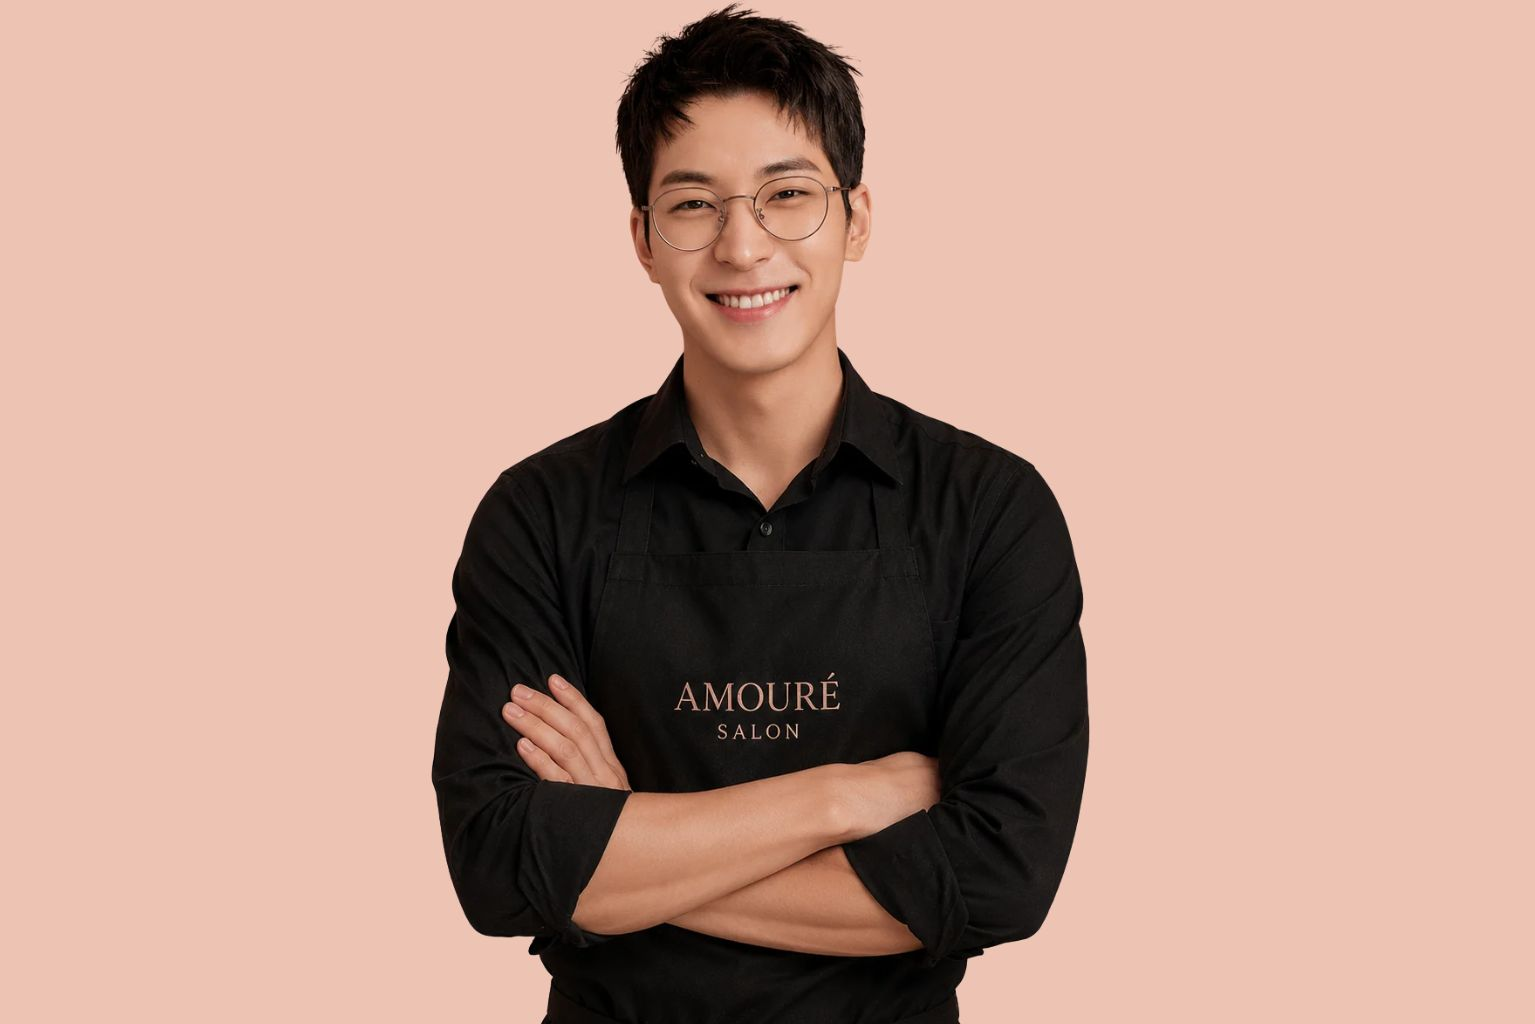
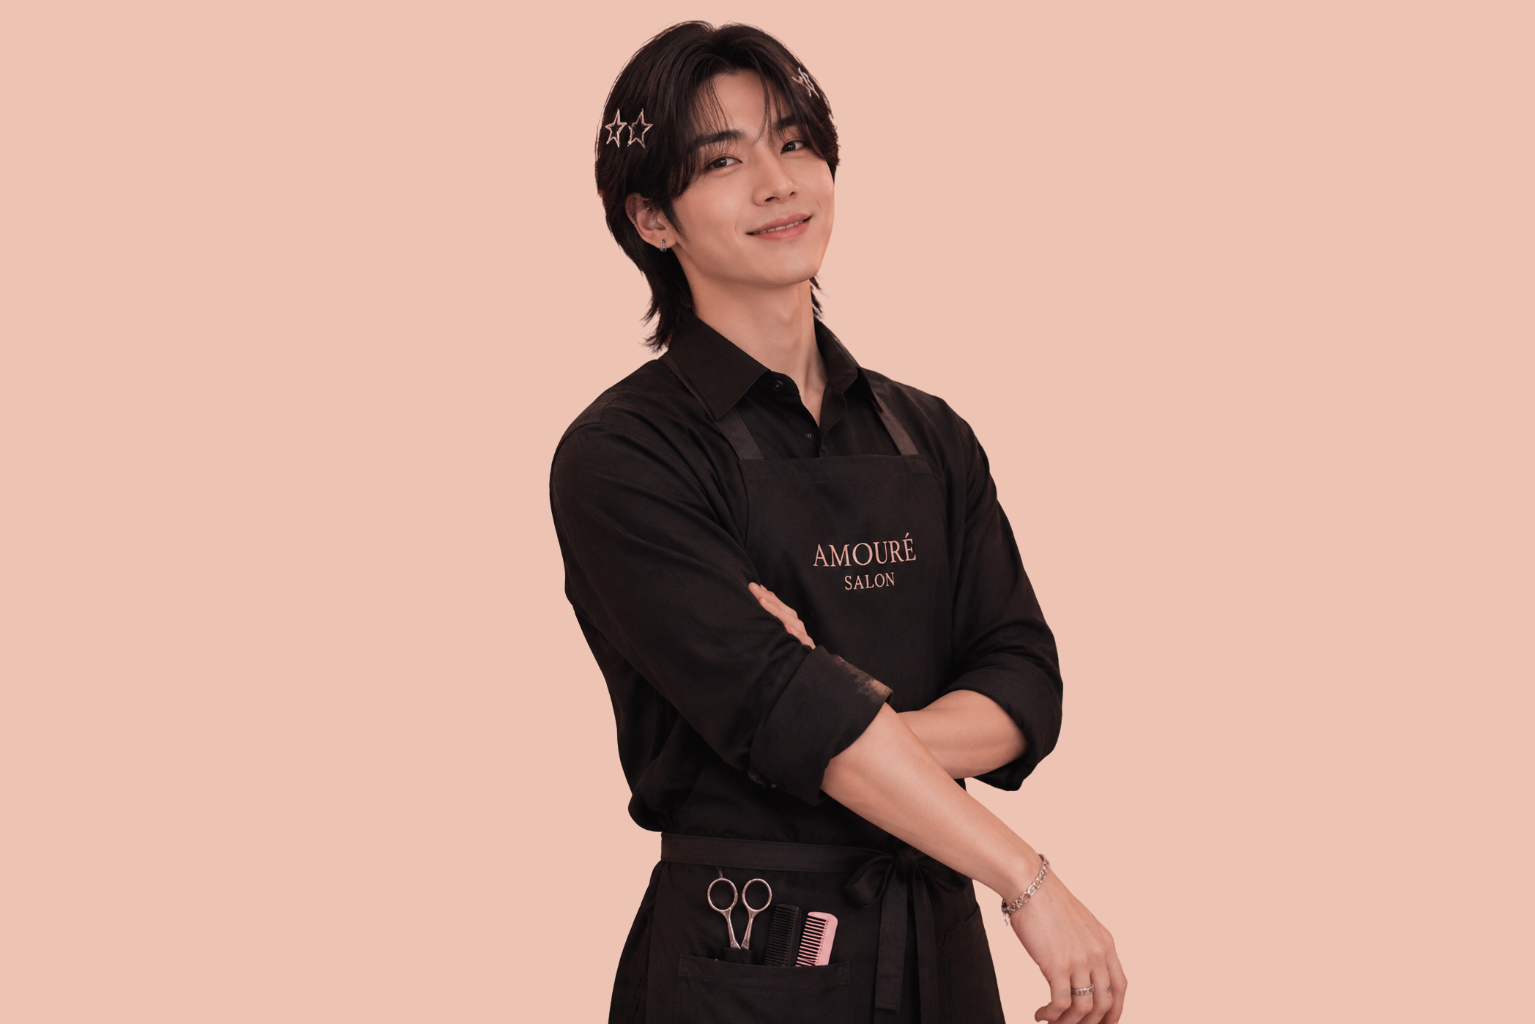
Added Stylist and change homepage

Changed region(s): [[0.2756, 0.0, 0.7349, 1.0], [0.4593, 0.9688, 0.4899, 1.0], [0.4287, 0.5625, 0.4593, 0.5938]]

diff --git a/frontend/assets/css/home.css b/frontend/assets/css/home.css
@@ -1,0 +1,38 @@
+/* AMOURÉ SALON: home page sizes (loaded after style.css) */
+/* Services: 3 per row on desktop, taller photos */
+.service-grid { grid-template-columns: repeat(3, minmax(0, 1fr)); gap: 24px; }
+.service-photo { height: 230px; }
+.service-body { padding: 34px 20px 22px; }
+.service-body h3 { font-size: 24px; }
+.service-body p { font-size: 14px; }
+.service-icon { width: 50px; height: 50px; top: -25px; }
+
+/* Gallery: 3 per row, larger photos */
+.gallery-grid { grid-template-columns: repeat(3, minmax(0, 1fr)); gap: 16px; }
+.gallery-photo { aspect-ratio: 4 / 3; border-radius: 14px; }
+
+/* Stylists: centred row, bigger circles */
+.team-grid { display: flex; flex-wrap: wrap; justify-content: center; gap: 36px 40px; }
+.team-card { width: 250px; }
+.team-photo { width: 240px; height: 240px; }
+.team-card strong { font-size: 26px; }
+.team-card .muted { font-size: 15px; }
+
+@media (max-width: 900px) {
+    .service-grid, .gallery-grid { grid-template-columns: repeat(2, minmax(0, 1fr)); }
+}
+@media (max-width: 600px) {
+    .service-grid { gap: 14px; }
+    .service-photo { height: 140px; }
+    .service-body { padding: 30px 10px 18px; }
+    .service-body h3 { font-size: 19px; }
+    .gallery-grid { gap: 10px; }
+    .team-card { width: 160px; }
+    .team-photo { width: 150px; height: 150px; }
+}
+
+/* 4 stylists in one row on laptops: shrink the circles a little below 1250px */
+@media (max-width: 1250px) and (min-width: 601px) {
+    .team-card { width: 210px; }
+    .team-photo { width: 200px; height: 200px; }
+}

diff --git a/frontend/views/layouts/header.php b/frontend/views/layouts/header.php
@@ -43,7 +43,9 @@ $phone     = setting('salon_phone');
     <link rel="preconnect" href="https://fonts.googleapis.com">
     <link rel="preconnect" href="https://fonts.gstatic.com" crossorigin>
     <link rel="stylesheet" href="https://fonts.googleapis.com/css2?family=Cormorant+Garamond:ital,wght@0,500;0,600;0,700;1,500;1,600&family=Great+Vibes&family=Montserrat:wght@400;500;600&display=swap">
-    <link rel="stylesheet" href="frontend/assets/css/style.css">
+    <?php $css = __DIR__ . '/../../assets/css/'; ?>
+    <link rel="stylesheet" href="frontend/assets/css/style.css?v=<?= @filemtime($css . 'style.css') ?>">
+    <link rel="stylesheet" href="frontend/assets/css/home.css?v=<?= @filemtime($css . 'home.css') ?>">
 </head>
 <body class="<?= e($bodyClass) ?>">
 

diff --git a/backend/controllers/HomeController.php b/backend/controllers/HomeController.php
@@ -12,7 +12,7 @@ class HomeController
         )->fetchAll();
 
         $stylists = db()->query(
-            'SELECT full_name, specialty FROM stylists WHERE is_active = 1 ORDER BY full_name LIMIT 4'
+            'SELECT full_name, specialty FROM stylists WHERE is_active = 1 ORDER BY id LIMIT 4'
         )->fetchAll();
 
         // Approved reviews shown as customer vouches. Names shortened to "Jessica R." for privacy.
